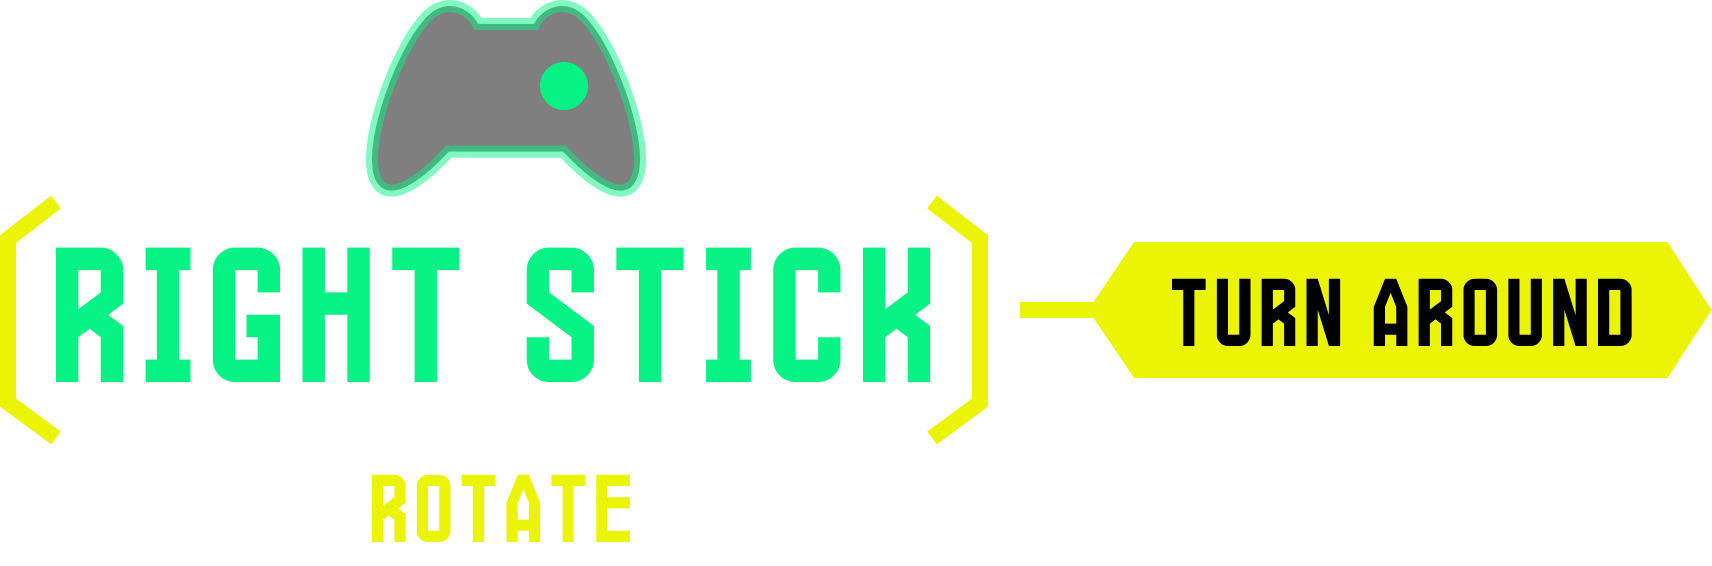
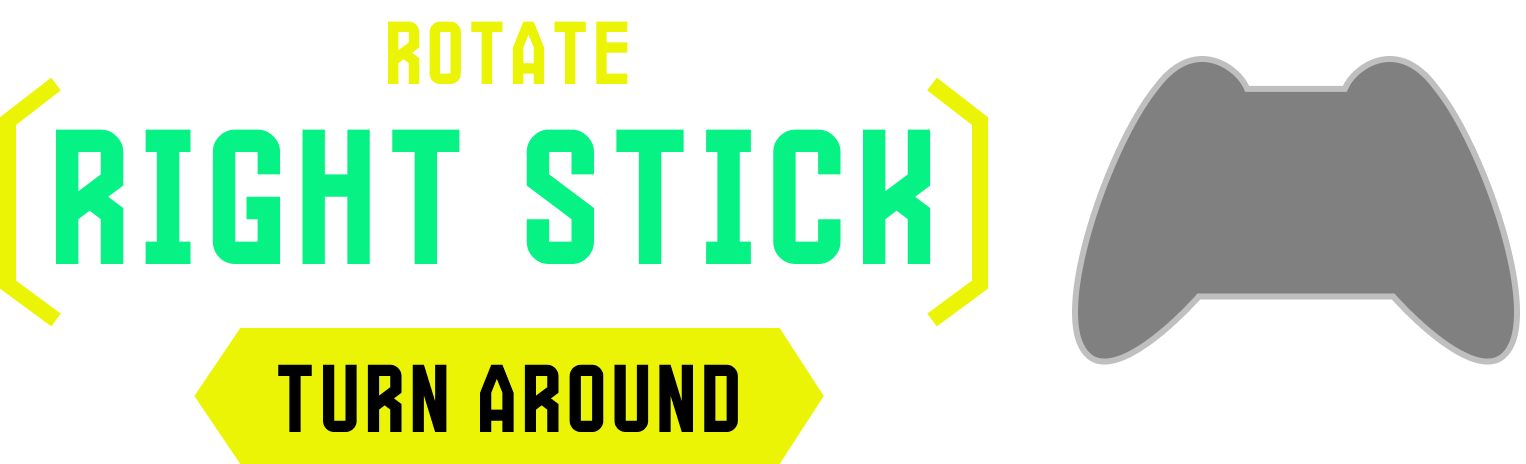
Tutorial: new hint art, with the stick diagram drawn on the pad in each plate
Replaces the tutorial's drawn hint plates and title with the new art, and adds
the Look Down / Look Left / Pause / Resume / Recenter plates.

The new plates draw a controller, on the right for the right stick and on the
left for the left, so the stick diagram can no longer hang off the plate's left
edge. Each HintArt entry can now place the diagram on its own picture
(stickOnArt, stickPosition, stickScale), read every frame so it can be tuned in
Play mode. The L / R under the ring is hidden while the diagram sits on a
plate, since the plate already says which stick.

diff --git a/Assets/_Core_NEW/Tutorial/TutorialHUD_NEW.cs b/Assets/_Core_NEW/Tutorial/TutorialHUD_NEW.cs
@@ -160,6 +160,19 @@ public class TutorialHUD_NEW : MonoBehaviour
                  "at the lower edge then stays down for as long as this picture is up, so " +
                  "one screen never asks for the same button twice.")]
         public bool carriesTheButton;
+
+        [Tooltip("Put the stick diagram ON this picture — over the pad drawn in it — " +
+                 "instead of hanging it off the plate's left edge.")]
+        public bool stickOnArt;
+
+        [Tooltip("Where the centre of the stick ring sits on the picture, 0 to 1: x from " +
+                 "the left edge, y from the BOTTOM edge. Read every frame, so it can be " +
+                 "dragged into place in Play mode (copy the value out before stopping).")]
+        public Vector2 stickPosition = new Vector2(0.5f, 0.5f);
+
+        [Tooltip("Size of the whole diagram — ring, knob and its travel together. 1 is " +
+                 "the authored size.")]
+        public float stickScale = 1f;
     }
 
     /// <summary>Whether Build or Update may rewrite the legend wording.</summary>
@@ -182,6 +195,12 @@ public class TutorialHUD_NEW : MonoBehaviour
     /// hint has to become the size of whatever is actually on it and go back afterwards.
     /// </summary>
     Vector2 _plateSize;
+
+    /// <summary>The stick diagram's authored placement, put back whenever a hint does
+    /// not ask for it to sit on the picture.</summary>
+    RectTransform _stickRect;
+    Vector2 _stickAnchorMin, _stickAnchorMax, _stickPosition;
+    Vector3 _stickScale;
 
     /// <summary>The beat whose words are on the hint line, polled for LiveHintText.</summary>
     TutorialBeat_NEW _hintBeat;
@@ -211,6 +230,15 @@ public class TutorialHUD_NEW : MonoBehaviour
 
         if (hintRoot != null) _hintRect = hintRoot.GetComponent<RectTransform>();
         if (_hintRect != null) _plateSize = _hintRect.sizeDelta;
+
+        if (stickGuide != null)
+        {
+            _stickRect = stickGuide.GetComponent<RectTransform>();
+            _stickAnchorMin = _stickRect.anchorMin;
+            _stickAnchorMax = _stickRect.anchorMax;
+            _stickPosition = _stickRect.anchoredPosition;
+            _stickScale = _stickRect.localScale;
+        }
 
         HideAll();
     }
@@ -266,6 +294,29 @@ public class TutorialHUD_NEW : MonoBehaviour
         stickGuide.SetGesture(live
             ? _currentBeat.StickGesture
             : TutorialStickGuide_NEW.Gesture.None);
+
+        PlaceStickGuide();
+    }
+
+    /// <summary>
+    /// On the picture where the picture asks for it, otherwise where the builder put it.
+    /// Every frame rather than on a change, so stickPosition and stickScale can be tuned
+    /// in Play mode against the actual art.
+    /// </summary>
+    void PlaceStickGuide()
+    {
+        if (_stickRect == null) return;
+
+        bool onArt = _shownArt != null && _shownArt.stickOnArt;
+
+        Vector2 anchor = onArt ? _shownArt.stickPosition : Vector2.zero;
+
+        _stickRect.anchorMin = onArt ? anchor : _stickAnchorMin;
+        _stickRect.anchorMax = onArt ? anchor : _stickAnchorMax;
+        _stickRect.anchoredPosition = onArt ? Vector2.zero : _stickPosition;
+        _stickRect.localScale = onArt ? Vector3.one * _shownArt.stickScale : _stickScale;
+
+        stickGuide.ShowStickLabel(!onArt);
     }
 
     /// <summary>

diff --git a/Assets/_Core_NEW/Tutorial/Editor/TutorialSceneBuilder_NEW.cs b/Assets/_Core_NEW/Tutorial/Editor/TutorialSceneBuilder_NEW.cs
@@ -4013,6 +4013,9 @@ public static class TutorialSceneBuilder_NEW
                 entry.FindPropertyRelative("hintText").stringValue = row.Hint;
                 entry.FindPropertyRelative("sprite").objectReferenceValue = null;
                 entry.FindPropertyRelative("carriesTheButton").boolValue = row.Button;
+                entry.FindPropertyRelative("stickOnArt").boolValue = false;
+                entry.FindPropertyRelative("stickPosition").vector2Value = new Vector2(0.5f, 0.5f);
+                entry.FindPropertyRelative("stickScale").floatValue = 1f;
 
                 changed = true;
             }

diff --git a/Assets/_Core_NEW/Tutorial/TutorialStickGuide_NEW.cs b/Assets/_Core_NEW/Tutorial/TutorialStickGuide_NEW.cs
@@ -311,6 +311,16 @@ public class TutorialStickGuide_NEW : MonoBehaviour
         }
     }
 
+    /// <summary>
+    /// Whether the L / R under the ring is shown. Off while the diagram sits on a drawn
+    /// plate, which already says which stick in its own words.
+    /// </summary>
+    public void ShowStickLabel(bool show)
+    {
+        if (stickLabel != null && stickLabel.gameObject.activeSelf != show)
+            stickLabel.gameObject.SetActive(show);
+    }
+
     /// <summary>Nothing on screen, nothing part-way through a motion. The attract reset.</summary>
     public void ResetForAttract()
     {
